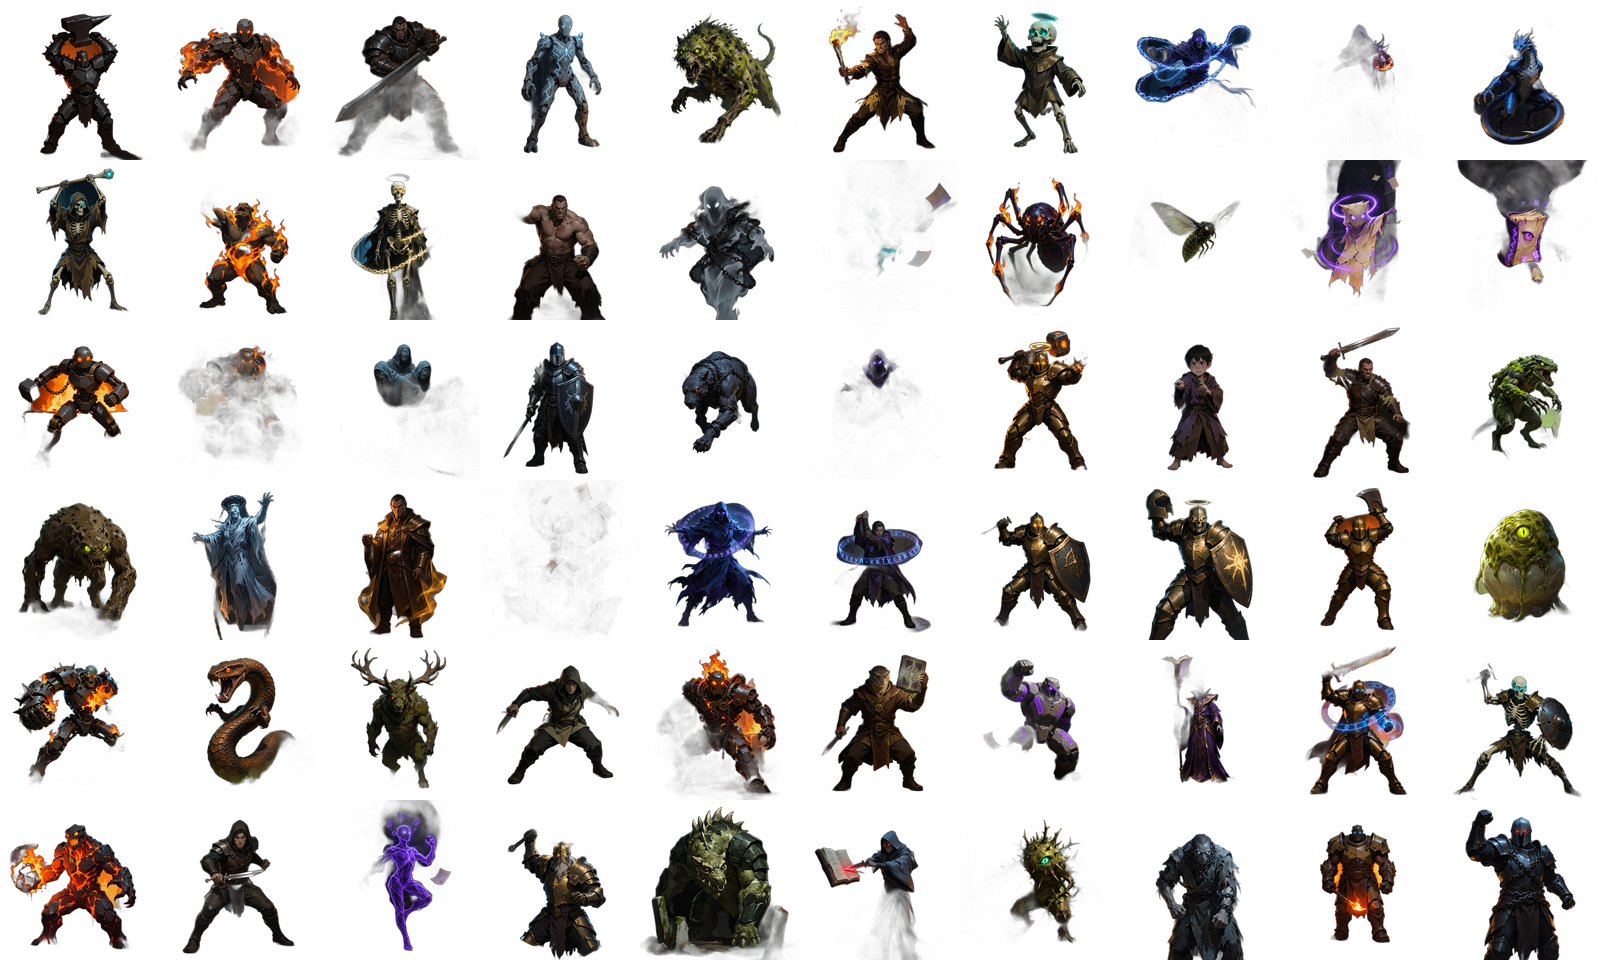
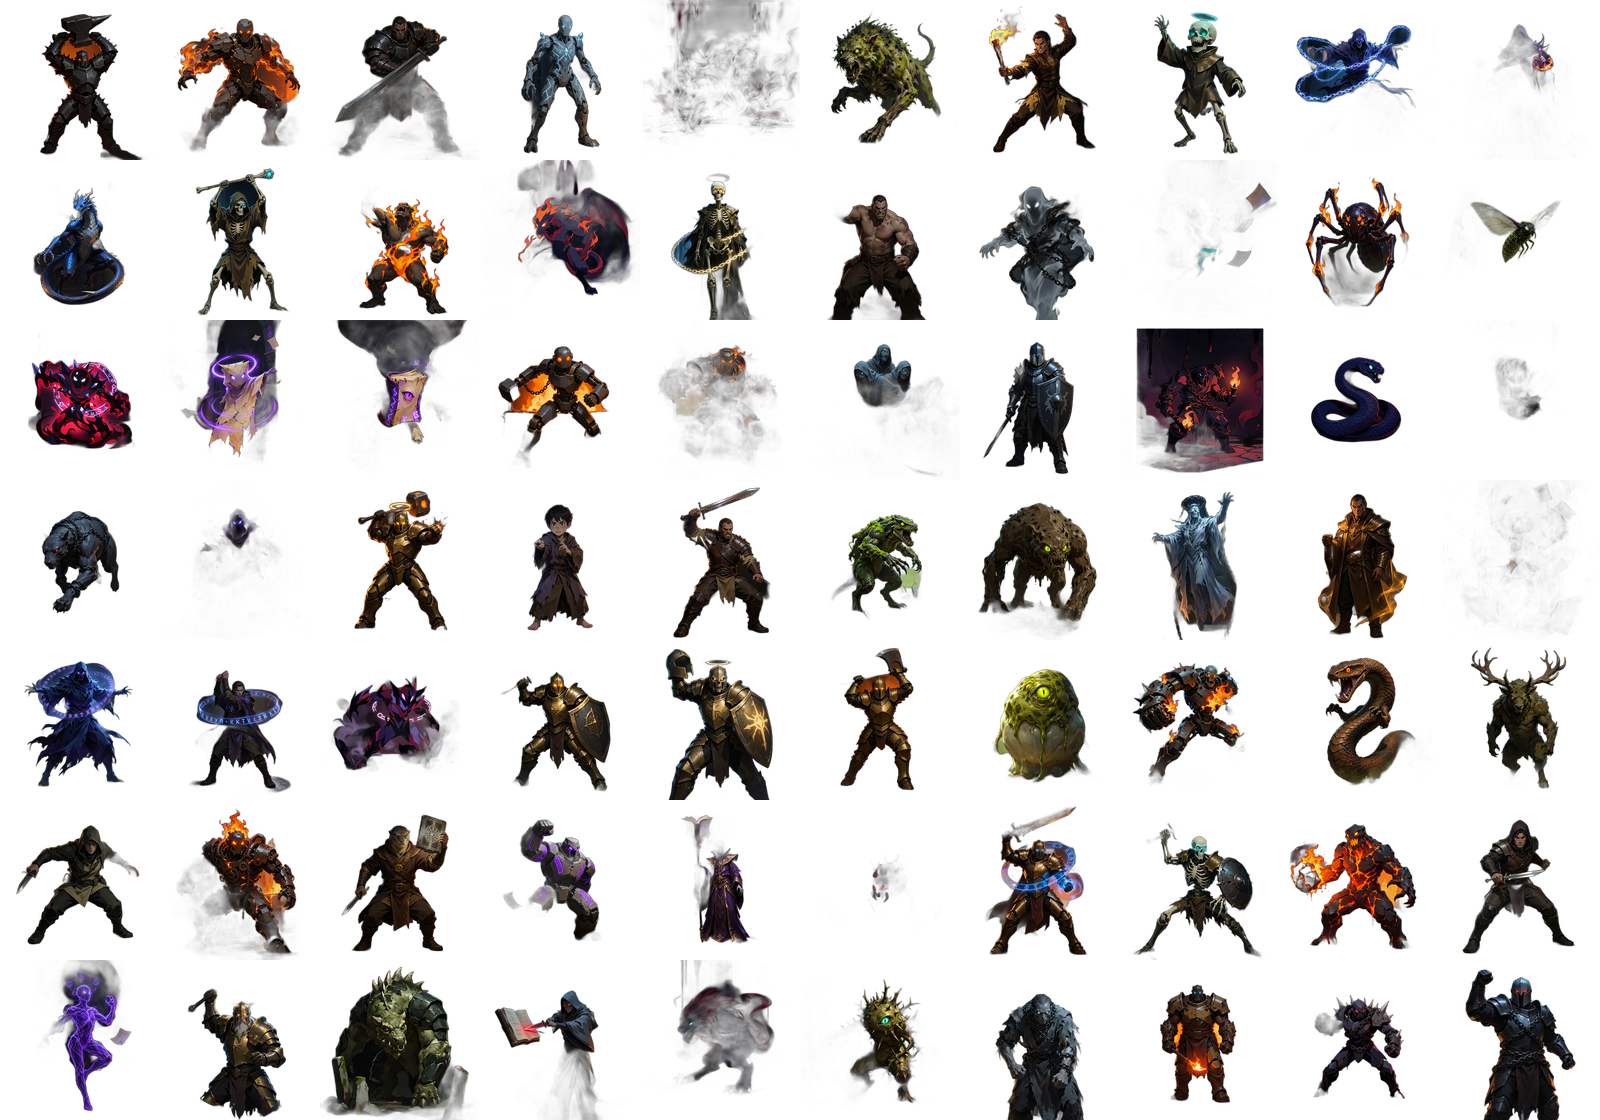
regen(map7): 按墨渊属性重生成图7 10只（可见背景+战斗姿态+BOSS威压），重拼雪碧图70格；atlas_data.js ?v=6

diff --git a/assets/atlas_data.js b/assets/atlas_data.js
@@ -1,5 +1,7 @@
-/* auto-generated sprite atlas map - do not edit manually */
-var ATLAS_MON={url:'assets/atlas_monsters.png?v=5',w:1600,h:960,map:{"anvil_ward":[0,0,160,160],"ash_construct":[160,0,160,160],"black_hand":[320,0,160,160],"blank_effigy":[480,0,160,160],"border_hound":[640,0,160,160],"broker":[800,0,160,160],"choir_husk":[960,0,160,160],"cloister_wraith":[1120,0,160,160],"codex_clerk":[1280,0,160,160],"corridor_drake":[1440,0,160,160],"cowled_skeleton":[0,160,160,160],"deed_burner":[160,160,160,160],"edna_silent":[320,160,160,160],"enforcer":[480,160,160,160],"erased_wretch":[640,160,160,160],"errata_wisp":[800,160,160,160],"etch_spider":[960,160,160,160],"fade_moth":[1120,160,160,160],"forbidden_echo":[1280,160,160,160],"forbidden_tome":[1440,160,160,160],"forge_doll":[0,320,160,160],"foundry_golem":[160,320,160,160],"gag_choir":[320,320,160,160],"gaol_warden":[480,320,160,160],"ledger_hound":[640,320,160,160],"library_wraith":[800,320,160,160],"live_foreman":[960,320,160,160],"mage_init":[1120,320,160,160],"merc_hire":[1280,320,160,160],"moss_scaler":[1440,320,160,160],"mud_beast":[0,480,160,160],"null_seventh":[160,480,160,160],"oz_threefinger":[320,480,160,160],"page_doll":[480,480,160,160],"penitent_ghost":[640,480,160,160],"private_mage":[800,480,160,160],"relic_sentry":[960,480,160,160],"reliquary_guard":[1120,480,160,160],"rivet_guard":[1280,480,160,160],"rot_pod":[1440,480,160,160],"rust_construct":[0,640,160,160],"rust_serpent":[160,640,160,160],"rust_stag":[320,640,160,160],"scout":[480,640,160,160],"scrap_remelt":[640,640,160,160],"seal_forger":[800,640,160,160],"sealed_idol":[960,640,160,160],"sevlan":[1120,640,160,160],"sigil_knight":[1280,640,160,160],"silent_bone":[1440,640,160,160],"slag_element":[0,800,160,160],"smuggler":[160,800,160,160],"spell_thread":[320,800,160,160],"stern_elder":[480,800,160,160],"stone_shin":[640,800,160,160],"strike_scribe":[800,800,160,160],"thornling":[960,800,160,160],"unnamed_inmate":[1120,800,160,160],"varuk":[1280,800,160,160],"warden_nameless":[1440,800,160,160]}};
-var ATLAS_ALPHA={url:'assets/atlas_alpha.png?v=5',w:1600,h:960,map:{"anvil_ward":[0,0,160,160],"ash_construct":[160,0,160,160],"black_hand":[320,0,160,160],"blank_effigy":[480,0,160,160],"border_hound":[640,0,160,160],"broker":[800,0,160,160],"choir_husk":[960,0,160,160],"cloister_wraith":[1120,0,160,160],"codex_clerk":[1280,0,160,160],"corridor_drake":[1440,0,160,160],"cowled_skeleton":[0,160,160,160],"deed_burner":[160,160,160,160],"edna_silent":[320,160,160,160],"enforcer":[480,160,160,160],"erased_wretch":[640,160,160,160],"errata_wisp":[800,160,160,160],"etch_spider":[960,160,160,160],"fade_moth":[1120,160,160,160],"forbidden_echo":[1280,160,160,160],"forbidden_tome":[1440,160,160,160],"forge_doll":[0,320,160,160],"foundry_golem":[160,320,160,160],"gag_choir":[320,320,160,160],"gaol_warden":[480,320,160,160],"ledger_hound":[640,320,160,160],"library_wraith":[800,320,160,160],"live_foreman":[960,320,160,160],"mage_init":[1120,320,160,160],"merc_hire":[1280,320,160,160],"moss_scaler":[1440,320,160,160],"mud_beast":[0,480,160,160],"null_seventh":[160,480,160,160],"oz_threefinger":[320,480,160,160],"page_doll":[480,480,160,160],"penitent_ghost":[640,480,160,160],"private_mage":[800,480,160,160],"relic_sentry":[960,480,160,160],"reliquary_guard":[1120,480,160,160],"rivet_guard":[1280,480,160,160],"rot_pod":[1440,480,160,160],"rust_construct":[0,640,160,160],"rust_serpent":[160,640,160,160],"rust_stag":[320,640,160,160],"scout":[480,640,160,160],"scrap_remelt":[640,640,160,160],"seal_forger":[800,640,160,160],"sealed_idol":[960,640,160,160],"sevlan":[1120,640,160,160],"sigil_knight":[1280,640,160,160],"silent_bone":[1440,640,160,160],"slag_element":[0,800,160,160],"smuggler":[160,800,160,160],"spell_thread":[320,800,160,160],"stern_elder":[480,800,160,160],"stone_shin":[640,800,160,160],"strike_scribe":[800,800,160,160],"thornling":[960,800,160,160],"unnamed_inmate":[1120,800,160,160],"varuk":[1280,800,160,160],"warden_nameless":[1440,800,160,160]}};
+var ATLAS_MON={url:'assets/atlas_monsters.png?v=6', w:1600, h:1120, map:{
+"anvil_ward":[0,0,160,160], "ash_construct":[160,0,160,160], "black_hand":[320,0,160,160], "blank_effigy":[480,0,160,160], "blot_ooze":[640,0,160,160], "border_hound":[800,0,160,160], "broker":[960,0,160,160], "choir_husk":[1120,0,160,160], "cloister_wraith":[1280,0,160,160], "codex_clerk":[1440,0,160,160], "corridor_drake":[0,160,160,160], "cowled_skeleton":[160,160,160,160], "deed_burner":[320,160,160,160], "deep_canary":[480,160,160,160], "edna_silent":[640,160,160,160], "enforcer":[800,160,160,160], "erased_wretch":[960,160,160,160], "errata_wisp":[1120,160,160,160], "etch_spider":[1280,160,160,160], "fade_moth":[1440,160,160,160], "first_wellspring":[0,320,160,160], "forbidden_echo":[160,320,160,160], "forbidden_tome":[320,320,160,160], "forge_doll":[480,320,160,160], "foundry_golem":[640,320,160,160], "gag_choir":[800,320,160,160], "gaol_warden":[960,320,160,160], "ink_hauler":[1120,320,160,160], "ink_leech":[1280,320,160,160], "ink_overseer":[1440,320,160,160], "ledger_hound":[0,480,160,160], "library_wraith":[160,480,160,160], "live_foreman":[320,480,160,160], "mage_init":[480,480,160,160], "merc_hire":[640,480,160,160], "moss_scaler":[800,480,160,160], "mud_beast":[960,480,160,160], "null_seventh":[1120,480,160,160], "oz_threefinger":[1280,480,160,160], "page_doll":[1440,480,160,160], "penitent_ghost":[0,640,160,160], "private_mage":[160,640,160,160], "quill_elemental":[320,640,160,160], "relic_sentry":[480,640,160,160], "reliquary_guard":[640,640,160,160], "rivet_guard":[800,640,160,160], "rot_pod":[960,640,160,160], "rust_construct":[1120,640,160,160], "rust_serpent":[1280,640,160,160], "rust_stag":[1440,640,160,160], "scout":[0,800,160,160], "scrap_remelt":[160,800,160,160], "seal_forger":[320,800,160,160], "sealed_idol":[480,800,160,160], "sevlan":[640,800,160,160], "shaft_arachnid":[800,800,160,160], "sigil_knight":[960,800,160,160], "silent_bone":[1120,800,160,160], "slag_element":[1280,800,160,160], "smuggler":[1440,800,160,160], "spell_thread":[0,960,160,160], "stern_elder":[160,960,160,160], "stone_shin":[320,960,160,160], "strike_scribe":[480,960,160,160], "sump_dweller":[640,960,160,160], "thornling":[800,960,160,160], "unnamed_inmate":[960,960,160,160], "varuk":[1120,960,160,160], "vein_construct":[1280,960,160,160], "warden_nameless":[1440,960,160,160]
+}};
+var ATLAS_ALPHA={url:'assets/atlas_alpha.png?v=6', w:1600, h:1120, map:{
+"anvil_ward":[0,0,160,160], "ash_construct":[160,0,160,160], "black_hand":[320,0,160,160], "blank_effigy":[480,0,160,160], "blot_ooze":[640,0,160,160], "border_hound":[800,0,160,160], "broker":[960,0,160,160], "choir_husk":[1120,0,160,160], "cloister_wraith":[1280,0,160,160], "codex_clerk":[1440,0,160,160], "corridor_drake":[0,160,160,160], "cowled_skeleton":[160,160,160,160], "deed_burner":[320,160,160,160], "deep_canary":[480,160,160,160], "edna_silent":[640,160,160,160], "enforcer":[800,160,160,160], "erased_wretch":[960,160,160,160], "errata_wisp":[1120,160,160,160], "etch_spider":[1280,160,160,160], "fade_moth":[1440,160,160,160], "first_wellspring":[0,320,160,160], "forbidden_echo":[160,320,160,160], "forbidden_tome":[320,320,160,160], "forge_doll":[480,320,160,160], "foundry_golem":[640,320,160,160], "gag_choir":[800,320,160,160], "gaol_warden":[960,320,160,160], "ink_hauler":[1120,320,160,160], "ink_leech":[1280,320,160,160], "ink_overseer":[1440,320,160,160], "ledger_hound":[0,480,160,160], "library_wraith":[160,480,160,160], "live_foreman":[320,480,160,160], "mage_init":[480,480,160,160], "merc_hire":[640,480,160,160], "moss_scaler":[800,480,160,160], "mud_beast":[960,480,160,160], "null_seventh":[1120,480,160,160], "oz_threefinger":[1280,480,160,160], "page_doll":[1440,480,160,160], "penitent_ghost":[0,640,160,160], "private_mage":[160,640,160,160], "quill_elemental":[320,640,160,160], "relic_sentry":[480,640,160,160], "reliquary_guard":[640,640,160,160], "rivet_guard":[800,640,160,160], "rot_pod":[960,640,160,160], "rust_construct":[1120,640,160,160], "rust_serpent":[1280,640,160,160], "rust_stag":[1440,640,160,160], "scout":[0,800,160,160], "scrap_remelt":[160,800,160,160], "seal_forger":[320,800,160,160], "sealed_idol":[480,800,160,160], "sevlan":[640,800,160,160], "shaft_arachnid":[800,800,160,160], "sigil_knight":[960,800,160,160], "silent_bone":[1120,800,160,160], "slag_element":[1280,800,160,160], "smuggler":[1440,800,160,160], "spell_thread":[0,960,160,160], "stern_elder":[160,960,160,160], "stone_shin":[320,960,160,160], "strike_scribe":[480,960,160,160], "sump_dweller":[640,960,160,160], "thornling":[800,960,160,160], "unnamed_inmate":[960,960,160,160], "varuk":[1120,960,160,160], "vein_construct":[1280,960,160,160], "warden_nameless":[1440,960,160,160]
+}};
 var ATLAS_OK=true;
-(function(){var a=new Image(),b=new Image();function f(){ATLAS_OK=false;}a.onerror=f;b.onerror=f;a.src=ATLAS_MON.url;b.src=ATLAS_ALPHA.url;})();

diff --git a/index.html b/index.html
@@ -1208,7 +1208,7 @@ body{
   </div>
 </div>
 
-<script src="assets/atlas_data.js?v=5"></script>
+<script src="assets/atlas_data.js?v=6"></script>
 <script>
 'use strict';
 /* =========================================================================
